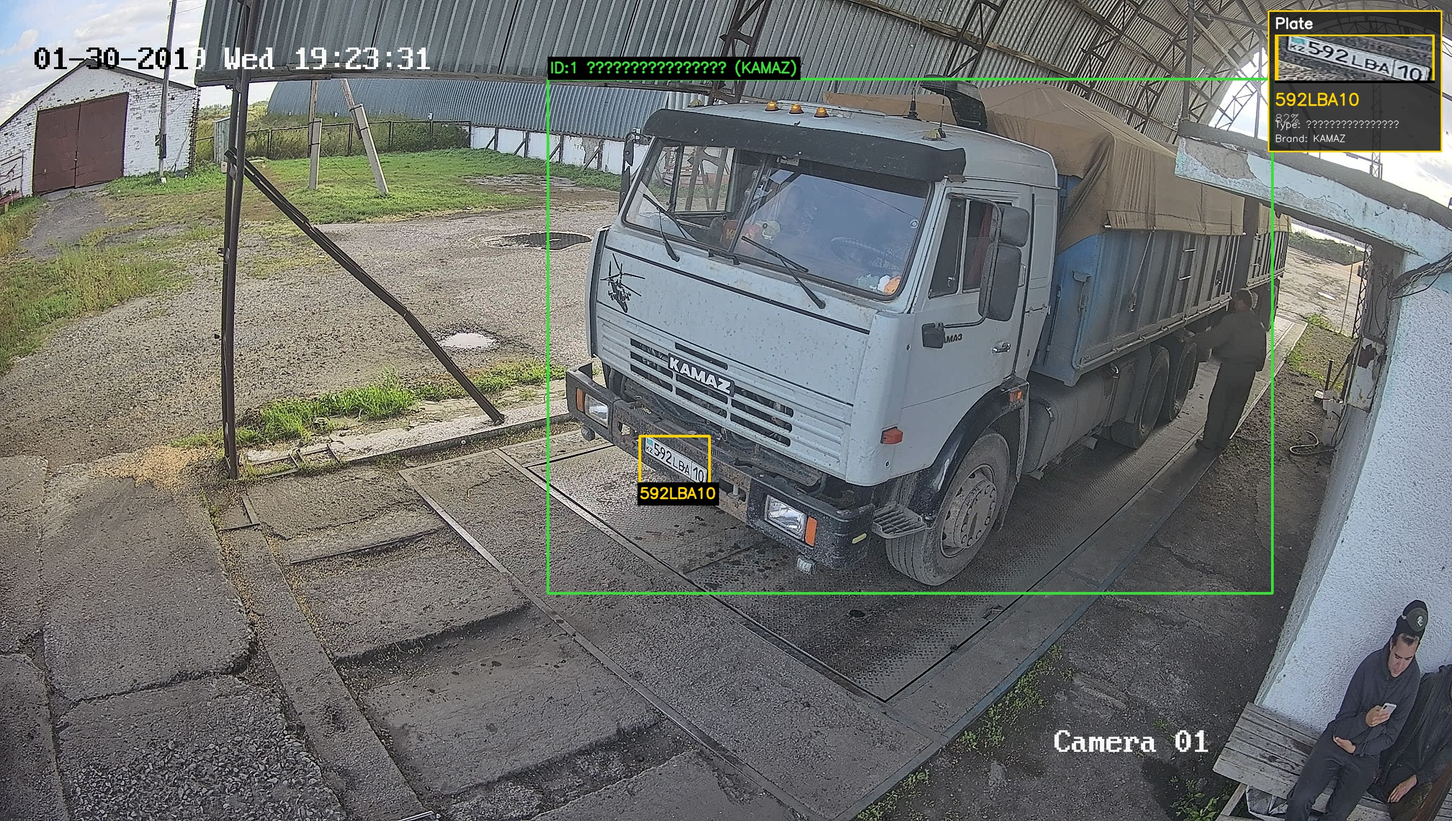
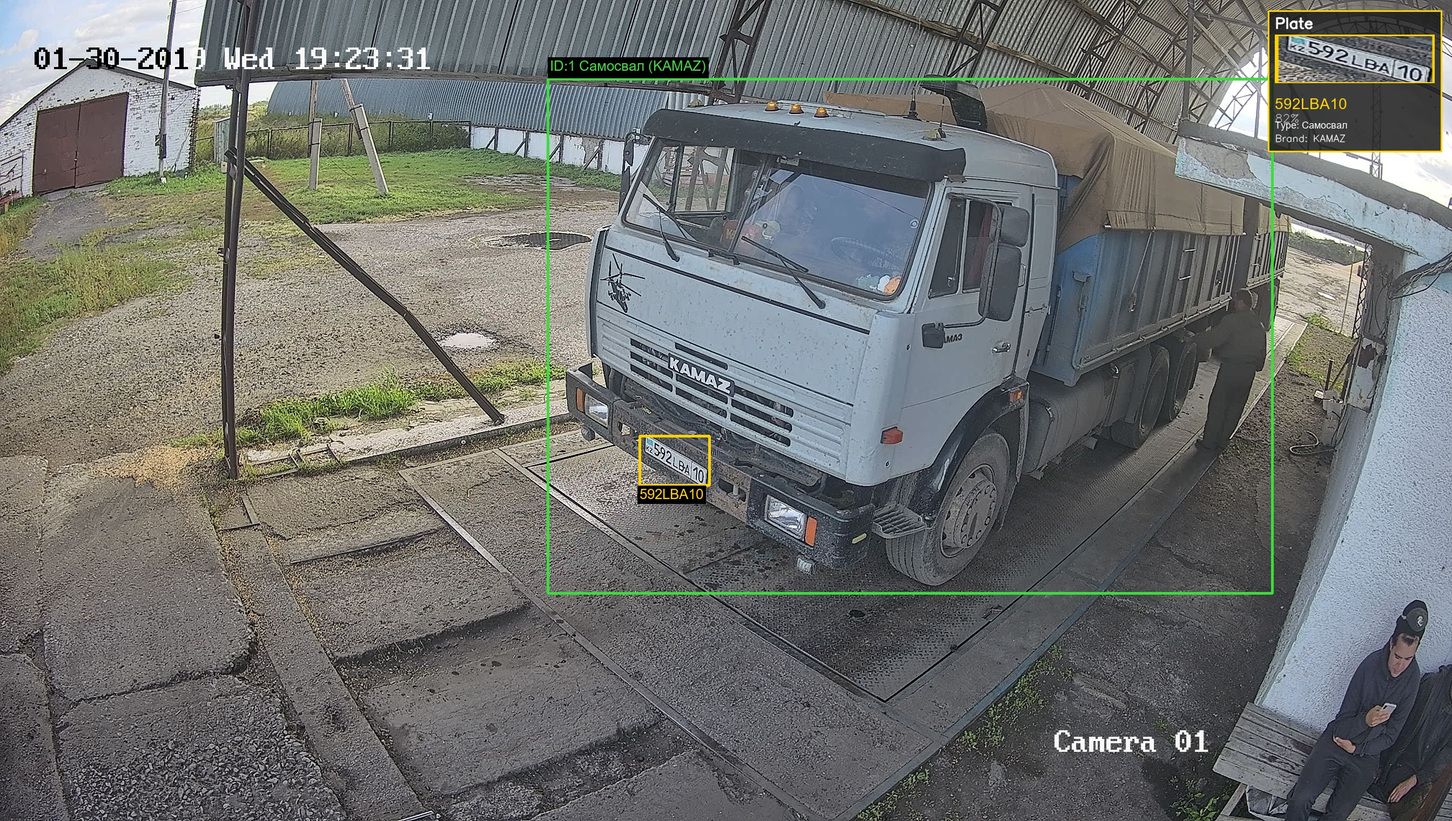
Annotate all 25 frames, fix Cyrillic labels, and mark unread plates
- pipeline.py: annotate every processed photo (was capped at 10), and
  render Cyrillic text via PIL — cv2.putText can't draw it and was
  showing "?????" for vehicle type on every annotated frame.
- detect.py: retry vehicle detection at 640px (then 640px with a lower
  confidence threshold) when the 1280px pass finds nothing or
  misclassifies an elongated vehicle as "train" — recovers a tractor
  and a truck that were previously missed entirely.
- plate.py: when no OCR text matches any plate format, fall back to
  marking the region as an unconfirmed candidate if a compact (<=2
  fragment), confidently-read, digit-containing cluster is found near
  where a plate would be. Saved as plates/unknown_<photo>.jpg and
  drawn with a "?" label instead of being silently dropped. Tightened
  to reject noisy multi-fragment clusters (tire tread texture, painted
  fleet numbers) that don't represent a real plate.

Changed region(s): [[0.375, 0.0618, 0.5625, 0.1237], [0.875, 0.0928, 0.9688, 0.1546], [0.4375, 0.5875, 0.5, 0.6184]]

diff --git a/src/plate.py b/src/plate.py
@@ -149,6 +149,80 @@ def _match_fragments(fragments):
     return None
 
 
+def _cluster_fragments(fragments, gap_ratio=1.0):
+    """Группирует близко расположенные (по X и Y) фрагменты OCR в кластеры —
+    одна физическая табличка при плохом качестве снимка часто распознаётся
+    несколькими мелкими обрывками рядом друг с другом, а не одним текстом."""
+    items = list(fragments)
+    used = [False] * len(items)
+    clusters = []
+    for i in range(len(items)):
+        if used[i]:
+            continue
+        cluster = [i]
+        used[i] = True
+        changed = True
+        while changed:
+            changed = False
+            cx1 = min(items[k][2][0] for k in cluster)
+            cy1 = min(items[k][2][1] for k in cluster)
+            cx2 = max(items[k][2][2] for k in cluster)
+            cy2 = max(items[k][2][3] for k in cluster)
+            ch = max(cy2 - cy1, 1)
+            for j in range(len(items)):
+                if used[j]:
+                    continue
+                jx1, jy1, jx2, jy2 = items[j][2]
+                jh = max(jy2 - jy1, 1)
+                dx = max(jx1 - cx2, cx1 - jx2, 0)
+                dy = max(jy1 - cy2, cy1 - jy2, 0)
+                if dx < gap_ratio * max(ch, jh) and dy < gap_ratio * max(ch, jh):
+                    cluster.append(j)
+                    used[j] = True
+                    changed = True
+        clusters.append(cluster)
+
+    result = []
+    for cluster in clusters:
+        text = "".join(items[k][0] for k in sorted(cluster, key=lambda k: items[k][2][1]))
+        # уверенность кластера — по САМОМУ СЛАБОМУ фрагменту в нём (не по самому
+        # сильному): один яркий, уверенно прочитанный кусок в куче шумных обрывков
+        # рядом — это ещё не табличка, а музор/текстура со случайным сильным пятном
+        conf = min(items[k][1] for k in cluster)
+        x1 = min(items[k][2][0] for k in cluster)
+        y1 = min(items[k][2][1] for k in cluster)
+        x2 = max(items[k][2][2] for k in cluster)
+        y2 = max(items[k][2][3] for k in cluster)
+        result.append((text, conf, (x1, y1, x2, y2), len(cluster)))
+    return result
+
+
+# Настоящий номер — это 1 строка текста (иногда OCR рвёт её на 2 куска) или 2
+# строки старого образца — никогда не куча из 3+ разрозненных обрывков.
+_UNCERTAIN_MAX_FRAGMENTS = 2
+# Кластер должен быть уверенным целиком, а не содержать один яркий кусок среди шума
+_UNCERTAIN_MIN_CONFIDENCE = 0.5
+
+
+def _uncertain_candidate(fragments):
+    """Последний рубеж: текст не удалось разобрать по формату номера, но если в
+    кластере фрагментов есть хотя бы одна цифра (настоящий номер всегда её
+    содержит) — считаем это местом номера и возвращаем область без подтверждённого
+    текста, чтобы её можно было отметить рамкой и сохранить кроп. Кластер должен
+    быть компактным (≤2 фрагментов) и достаточно уверенным целиком — иначе легко
+    принять текстуру (протектор шины, грязь) или закрашенный инвентарный номер
+    техники за номерной знак."""
+    candidates = [
+        (text, conf, bbox) for text, conf, bbox, n_frags in _cluster_fragments(fragments)
+        if any(ch.isdigit() for ch in text)
+        and n_frags <= _UNCERTAIN_MAX_FRAGMENTS
+        and conf >= _UNCERTAIN_MIN_CONFIDENCE
+    ]
+    if not candidates:
+        return None
+    return max(candidates, key=lambda c: c[1])
+
+
 def _zoomed_bottom_ocr(crop):
     """Повторный OCR на увеличенной нижней части кропа техники (где обычно висит
     номер) — помогает, когда техника мелкая/далёкая и настоящая табличка тонет
@@ -184,12 +258,24 @@ def find_plate(image, vehicle_bbox: tuple) -> PlateResult:
         return (x1 + lx1, y1 + ly1, x1 + lx2, y1 + ly2)
 
     match = _match_fragments(_run_ocr(crop))
+    zoom_fragments = None
     if match is None:
-        match = _match_fragments(_zoomed_bottom_ocr(crop))
+        zoom_fragments = _zoomed_bottom_ocr(crop)
+        match = _match_fragments(zoom_fragments)
 
     if match is not None:
         text, conf, bbox_local = match
         return PlateResult(text, conf, to_global(bbox_local))
+
+    # 4) текст не сложился ни в один формат номера, но в кадре есть область
+    # с цифрами там, где обычно висит номер — отмечаем её как неуверенный
+    # кандидат (без подтверждённого текста), чтобы граница и кроп не терялись
+    if zoom_fragments is None:
+        zoom_fragments = _zoomed_bottom_ocr(crop)
+    uncertain = _uncertain_candidate(zoom_fragments)
+    if uncertain is not None:
+        _text, conf, bbox_local = uncertain
+        return PlateResult(None, conf, to_global(bbox_local))
 
     return PlateResult(None, 0.0, None)
 

diff --git a/src/pipeline.py b/src/pipeline.py
@@ -5,14 +5,16 @@
 
 Результат:
     results/results.json, results/results.csv — данные по каждому фото
-    results/annotated/*.jpg — несколько кадров с отмеченными объектами
+    results/annotated/*.jpg — все обработанные кадры с отмеченными объектами
 """
 import json
 import sys
 from pathlib import Path
 
 import cv2
+import numpy as np
 import pandas as pd
+from PIL import Image, ImageDraw, ImageFont
 
 sys.path.insert(0, str(Path(__file__).resolve().parent))
 
@@ -22,16 +24,43 @@ from plate import find_plate, read_text_tokens  # noqa: E402
 from classify import classify_vehicle  # noqa: E402
 
 IMAGE_EXTS = {".jpg", ".jpeg", ".png"}
-N_ANNOTATED_SAMPLES = 10  # сколько размеченных картинок сохранить для демонстрации
+
+# cv2.putText не умеет рисовать кириллицу (выводит "?????"), поэтому весь текст
+# на аннотированных кадрах рисуется через PIL шрифтом с поддержкой юникода
+_FONT_CANDIDATES = ["C:/Windows/Fonts/arial.ttf", "C:/Windows/Fonts/segoeui.ttf",
+                     "C:/Windows/Fonts/tahoma.ttf"]
+_font_cache: dict[int, ImageFont.FreeTypeFont] = {}
 
 
-def _put_label(image, text, org, color, scale=0.9, thickness=2, bg=(0, 0, 0)):
-    """Текст на закрашенной подложке — читаемо на любом фоне."""
-    (tw, th), baseline = cv2.getTextSize(text, cv2.FONT_HERSHEY_SIMPLEX, scale, thickness)
+def _get_font(size: int):
+    if size not in _font_cache:
+        path = next((p for p in _FONT_CANDIDATES if Path(p).exists()), None)
+        _font_cache[size] = ImageFont.truetype(path, size) if path else ImageFont.load_default()
+    return _font_cache[size]
+
+
+def _put_label(image, text, org, color, font_size=26, bg=(0, 0, 0)):
+    """Текст (в т.ч. кириллица) на закрашенной подложке — читаемо на любом фоне."""
+    font = _get_font(font_size)
+    pil_img = Image.fromarray(cv2.cvtColor(image, cv2.COLOR_BGR2RGB))
+    draw = ImageDraw.Draw(pil_img)
     x, y = org
-    cv2.rectangle(image, (x - 4, y - th - baseline - 4), (x + tw + 4, y + baseline), bg, -1)
-    cv2.putText(image, text, (x, y - baseline // 2), cv2.FONT_HERSHEY_SIMPLEX,
-                scale, color, thickness, cv2.LINE_AA)
+    l, t, r, b = draw.textbbox((0, 0), text, font=font)
+    tw, th = r - l, b - t
+    draw.rectangle((x - 4, y - th - 8, x + tw + 4, y + 6), fill=(bg[2], bg[1], bg[0]))
+    draw.text((x, y - th - t - 2), text, font=font, fill=(color[2], color[1], color[0]))
+    image[:] = cv2.cvtColor(np.array(pil_img), cv2.COLOR_RGB2BGR)
+
+
+def _draw_text(image, text, org, color, font_size=26):
+    """Текст (в т.ч. кириллица) без подложки — поверх уже нарисованного фона."""
+    font = _get_font(font_size)
+    pil_img = Image.fromarray(cv2.cvtColor(image, cv2.COLOR_BGR2RGB))
+    draw = ImageDraw.Draw(pil_img)
+    x, y = org
+    _, t, _, b = draw.textbbox((0, 0), text, font=font)
+    draw.text((x, y - (b - t) - t), text, font=font, fill=(color[2], color[1], color[0]))
+    image[:] = cv2.cvtColor(np.array(pil_img), cv2.COLOR_RGB2BGR)
 
 
 def draw_annotation(image, vehicle_bbox, plate_result, classify_result, vehicle_id=1):
@@ -76,14 +105,13 @@ def draw_annotation(image, vehicle_bbox, plate_result, classify_result, vehicle_
         text_y = py + 100
 
     plate_text = plate_result.text or "не распознан"
-    cv2.putText(image, plate_text, (px + 12, text_y), cv2.FONT_HERSHEY_SIMPLEX,
-                1.0, YELLOW, 2, cv2.LINE_AA)
+    _draw_text(image, plate_text, (px + 12, text_y + 8), YELLOW, font_size=28)
     if plate_result.text:
         cv2.putText(image, f"{plate_result.confidence * 100:.0f}%", (px + 12, text_y + 32),
                     cv2.FONT_HERSHEY_SIMPLEX, 0.7, (200, 200, 200), 1, cv2.LINE_AA)
 
-    cv2.putText(image, f"Type: {classify_result.vehicle_type_ru}", (px + 12, py + panel_h - 44),
-                cv2.FONT_HERSHEY_SIMPLEX, 0.6, (255, 255, 255), 1, cv2.LINE_AA)
+    _draw_text(image, f"Type: {classify_result.vehicle_type_ru}",
+               (px + 12, py + panel_h - 38), (255, 255, 255), font_size=18)
     mf_text = f"Brand: {classify_result.manufacturer or '?'}"
     cv2.putText(image, mf_text, (px + 12, py + panel_h - 18),
                 cv2.FONT_HERSHEY_SIMPLEX, 0.6, (255, 255, 255), 1, cv2.LINE_AA)
@@ -179,7 +207,7 @@ def main():
         print(f"[{i}/{len(image_paths)}] {path.name} ...", flush=True)
         record, annotated = process_image(path)
         records.append(record)
-        if annotated is not None and i <= N_ANNOTATED_SAMPLES:
+        if annotated is not None:
             out_path = ANNOTATED_DIR / f"annotated_{path.name}"
             cv2.imwrite(str(out_path), annotated)
 

diff --git a/src/detect.py b/src/detect.py
@@ -21,11 +21,8 @@ def get_model() -> YOLO:
     return _model
 
 
-def detect_vehicles(image_path: str) -> list[Detection]:
-    model = get_model()
-    # imgsz=1280: снимки с весовой — full-HD/широкоугольные, техника часто занимает
-    # небольшую часть кадра. При стандартном imgsz=640 YOLO её banально не находит.
-    result = model.predict(source=image_path, verbose=False, imgsz=1280)[0]
+def _detect_at_scale(model, image_path: str, imgsz: int, conf: float = 0.25) -> list[Detection]:
+    result = model.predict(source=image_path, verbose=False, imgsz=imgsz, conf=conf)[0]
     names = result.names
     detections = []
     for box in result.boxes:
@@ -39,4 +36,22 @@ def detect_vehicles(image_path: str) -> list[Detection]:
             confidence=float(box.conf[0]),
         ))
     detections.sort(key=lambda d: (d.bbox[2] - d.bbox[0]) * (d.bbox[3] - d.bbox[1]), reverse=True)
+    return detections
+
+
+def detect_vehicles(image_path: str) -> list[Detection]:
+    model = get_model()
+    # imgsz=1280: снимки с весовой — full-HD/широкоугольные, техника часто занимает
+    # небольшую часть кадра. При стандартном imgsz=640 YOLO её банально не находит.
+    # Но иногда бывает наоборот: на 1280 вытянутую технику (трактор с прицепом,
+    # грузовик крупным планом) YOLO путает с классом "train" (не входит в число
+    # классов техники) и упускает её — тогда пробуем ещё раз на 640, где эта же
+    # техника чаще уверенно распознаётся как car/truck/bus.
+    detections = _detect_at_scale(model, image_path, 1280)
+    if not detections:
+        detections = _detect_at_scale(model, image_path, 640)
+    if not detections:
+        # техника нестандартной формы (трактор и т.п.) — не входит в обучающие
+        # классы COCO, YOLO уверен в ней слабо; здесь это лучше, чем ничего
+        detections = _detect_at_scale(model, image_path, 640, conf=0.15)
     return detections

diff --git a/README.md b/README.md
@@ -4,18 +4,28 @@
 
 Пайплайн для набора фото с весовой (`data/Auto`): находит технику на кадре,
 распознаёт государственный номер (если он виден и читается), определяет тип
-техники и производителя, сохраняет результат в JSON/CSV и размечает несколько
-кадров для демонстрации.
+техники и производителя, сохраняет результат в JSON/CSV и размечает все
+обработанные кадры для демонстрации.
 
 ### Как это работает
 
 1. **Детекция техники** — `YOLOv8n` (предобученная на COCO) находит на кадре
-   объект класса car/truck/bus и берёт самый крупный по площади бокс.
+   объект класса car/truck/bus и берёт самый крупный по площади бокс. Если на
+   основном разрешении (1280px) технику не нашли или спутали с посторонним
+   классом (например, вытянутый грузовик распознаётся как "train") — детекция
+   повторяется на 640px, а затем на 640px с более мягким порогом уверенности
+   (для нестандартной техники вроде тракторов, которой нет среди классов COCO).
 2. **Номер** — `PaddleOCR` (PP-OCRv4) читает текст в области техники, из
    распознанных фрагментов выбирается тот, что соответствует формату
-   казахстанского номера (3 цифры + 1–3 буквы + 2 цифры региона, например
-   `160ALV10`). Найденный номер вырезается и сохраняется отдельным файлом в
-   `results/plates/`.
+   казахстанского номера: однострочному (3 цифры + 1–3 буквы + 2 цифры
+   региона, например `160ALV10`) или старому двухстрочному (буквенная серия
+   сверху, номер снизу, например `AFE`/`P523`). Если табличка слишком мелкая
+   в кадре — область номера дополнительно ищется повторно на увеличенном
+   кропе нижней части техники. Если текст так и не сложился в номер, но рядом
+   найдена компактная (1–2 фрагмента) уверенно прочитанная область с цифрами —
+   она всё равно отмечается как вероятное место номера, просто без
+   подтверждённого текста (см. ниже про `unknown_*`). Найденная область
+   вырезается и сохраняется отдельным файлом в `results/plates/`.
 3. **Тип техники** — zero-shot классификация `CLIP (ViT-B/32)`: кроп техники
    сравнивается с текстовыми описаниями (самосвал, бортовой/зерновоз,
    автоцистерна, трактор, легковой, автобус, спецтехника).
@@ -54,18 +64,20 @@ Torch ставится отдельной командой с CPU-индексо
 - `results/results.json`, `results/results.csv` — по каждому фото: файл,
   найдена ли техника, тип техники (RU), производитель, номер, координаты
   бокса, confidence-оценки.
-- `results/annotated/` — несколько кадров с отрисованными боксами техники и
-  номера для демонстрации.
-- `results/plates/` — чистый кроп (без рамок/подписей) каждого распознанного
-  номера, отдельным файлом `<номер>_<фото>.jpg`.
+- `results/annotated/` — все обработанные кадры с отрисованными боксами
+  техники и номера для демонстрации.
+- `results/plates/` — чистый кроп (без рамок/подписей) области номера,
+  отдельным файлом `<номер>_<фото>.jpg`. Если текст распознать не удалось, но
+  граница таблички видна (например, она слишком мелкая или размытая) — кроп
+  всё равно сохраняется, с именем `unknown_<фото>.jpg`.
 
 ### Известные ограничения
 
 - Номер распознаётся только если видна лицевая/задняя часть техники с
   читаемой табличкой — на ракурсах сбоку/издали текст может не найтись.
-- Номера двухстрочного старого образца (текст в две строки на табличке, а не
-  в одну) не поддерживаются — распознавание рассчитано на однострочный
-  казахстанский формат.
+- Поддерживается только казахстанский формат номера (однострочный и старый
+  двухстрочный). Номера других стран (например, российский формат
+  "буква-3цифры-буква + регион") не распознаются.
 - Производитель по CLIP — эвристика, не обученный классификатор; наиболее
   надёжен, когда название бренда физически написано на кузове/решётке.
 - Модель техники (конкретная модификация) не выводится — см. выше.
